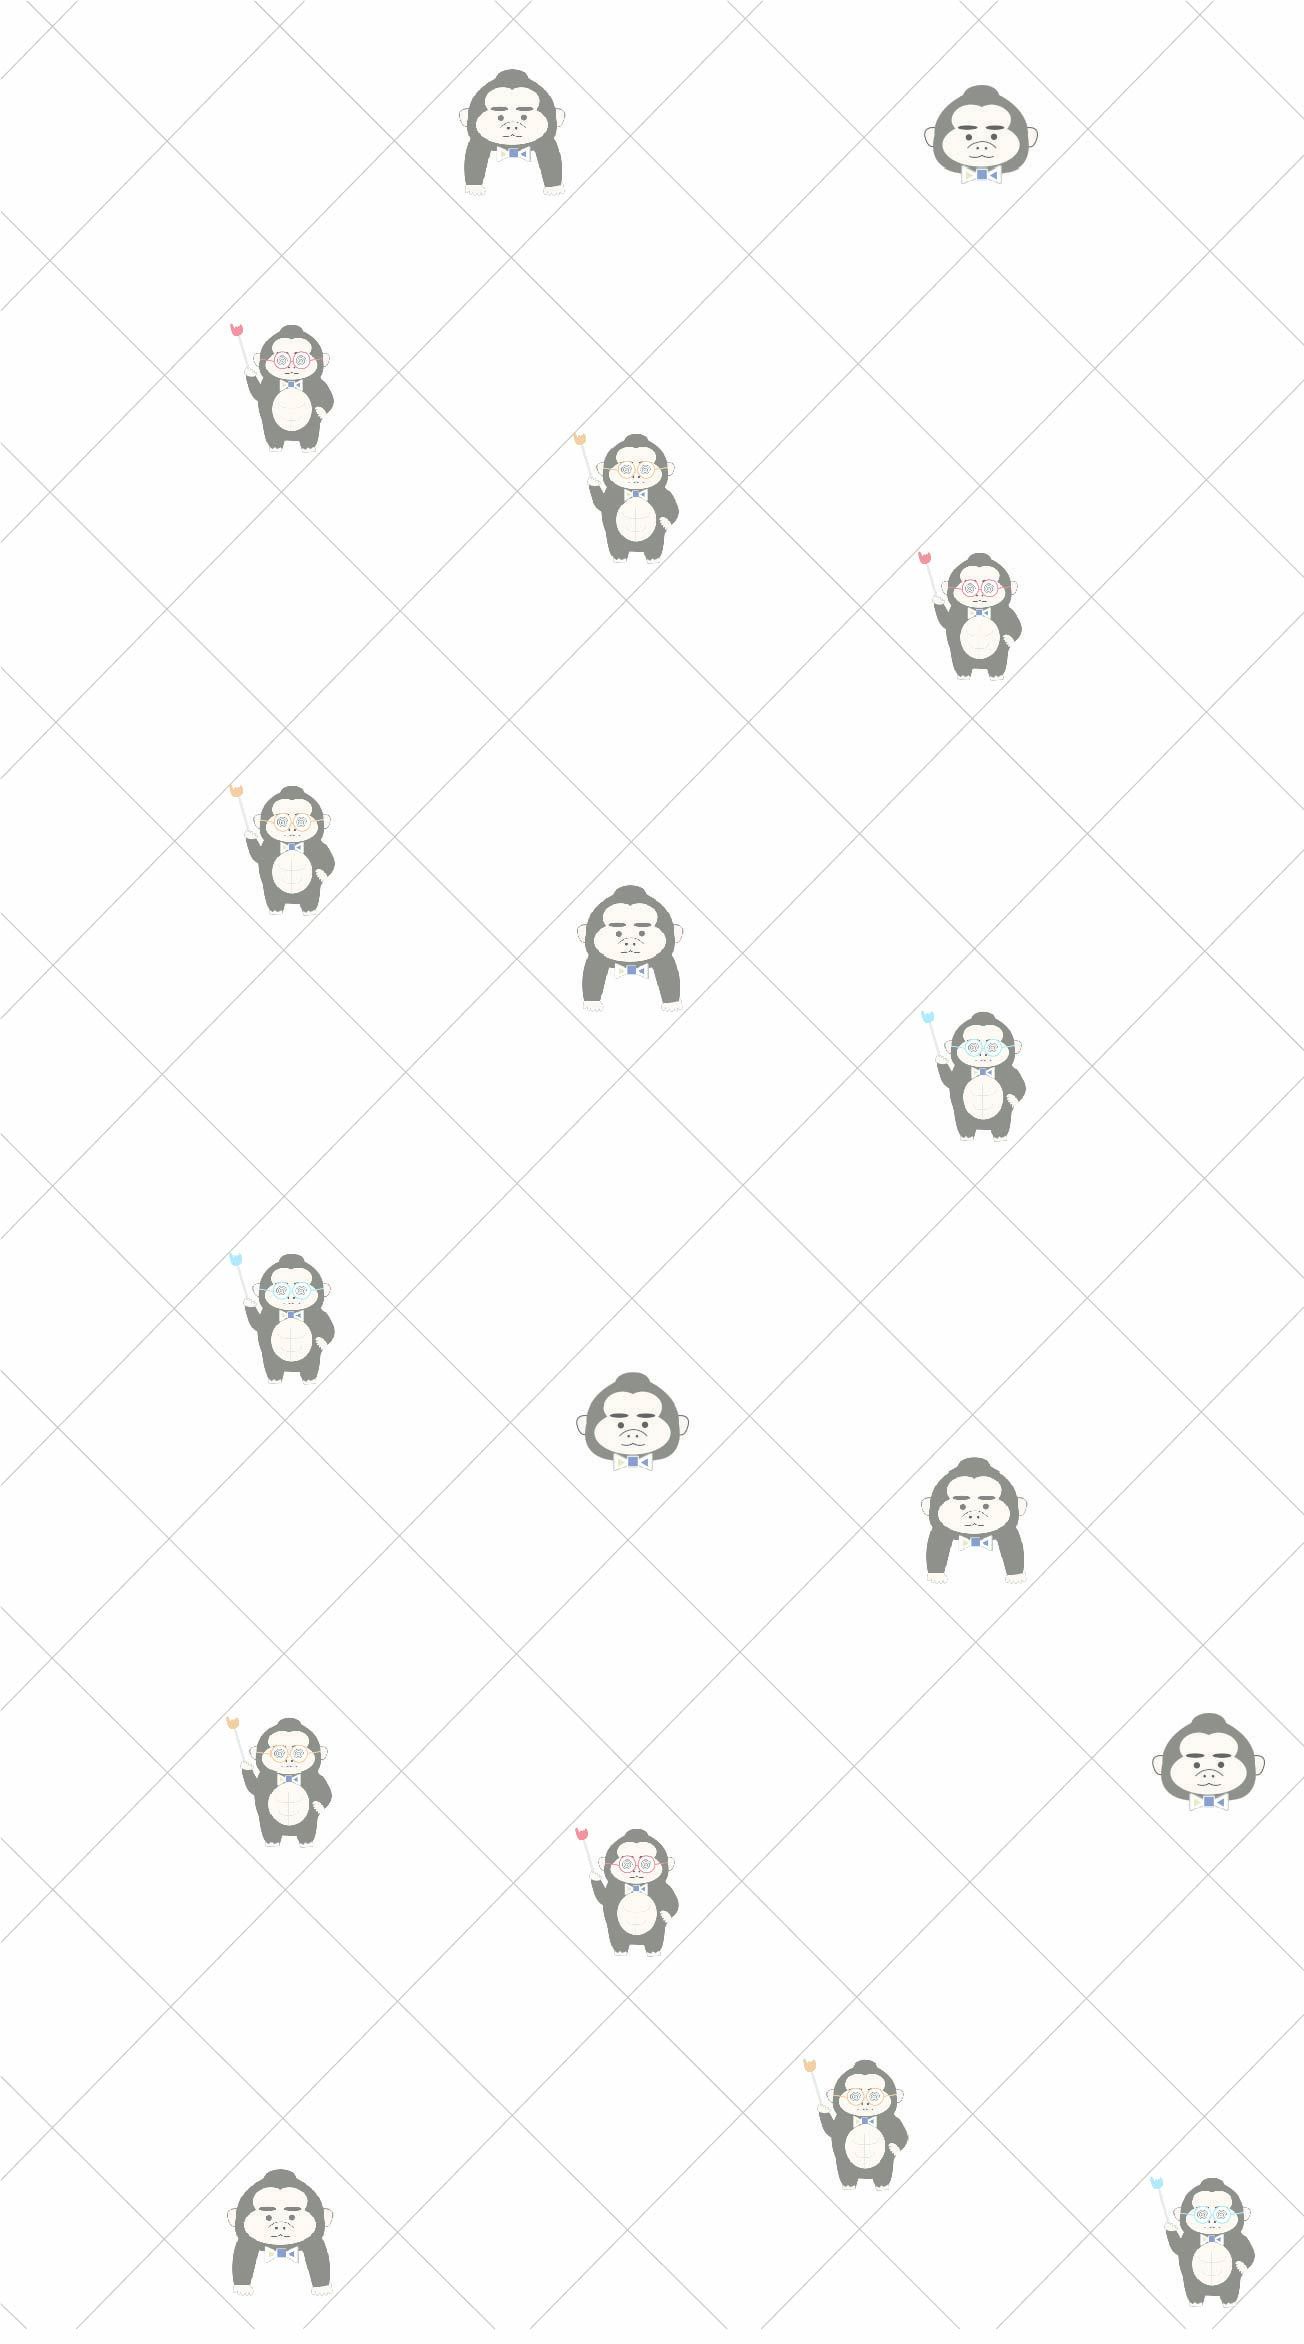
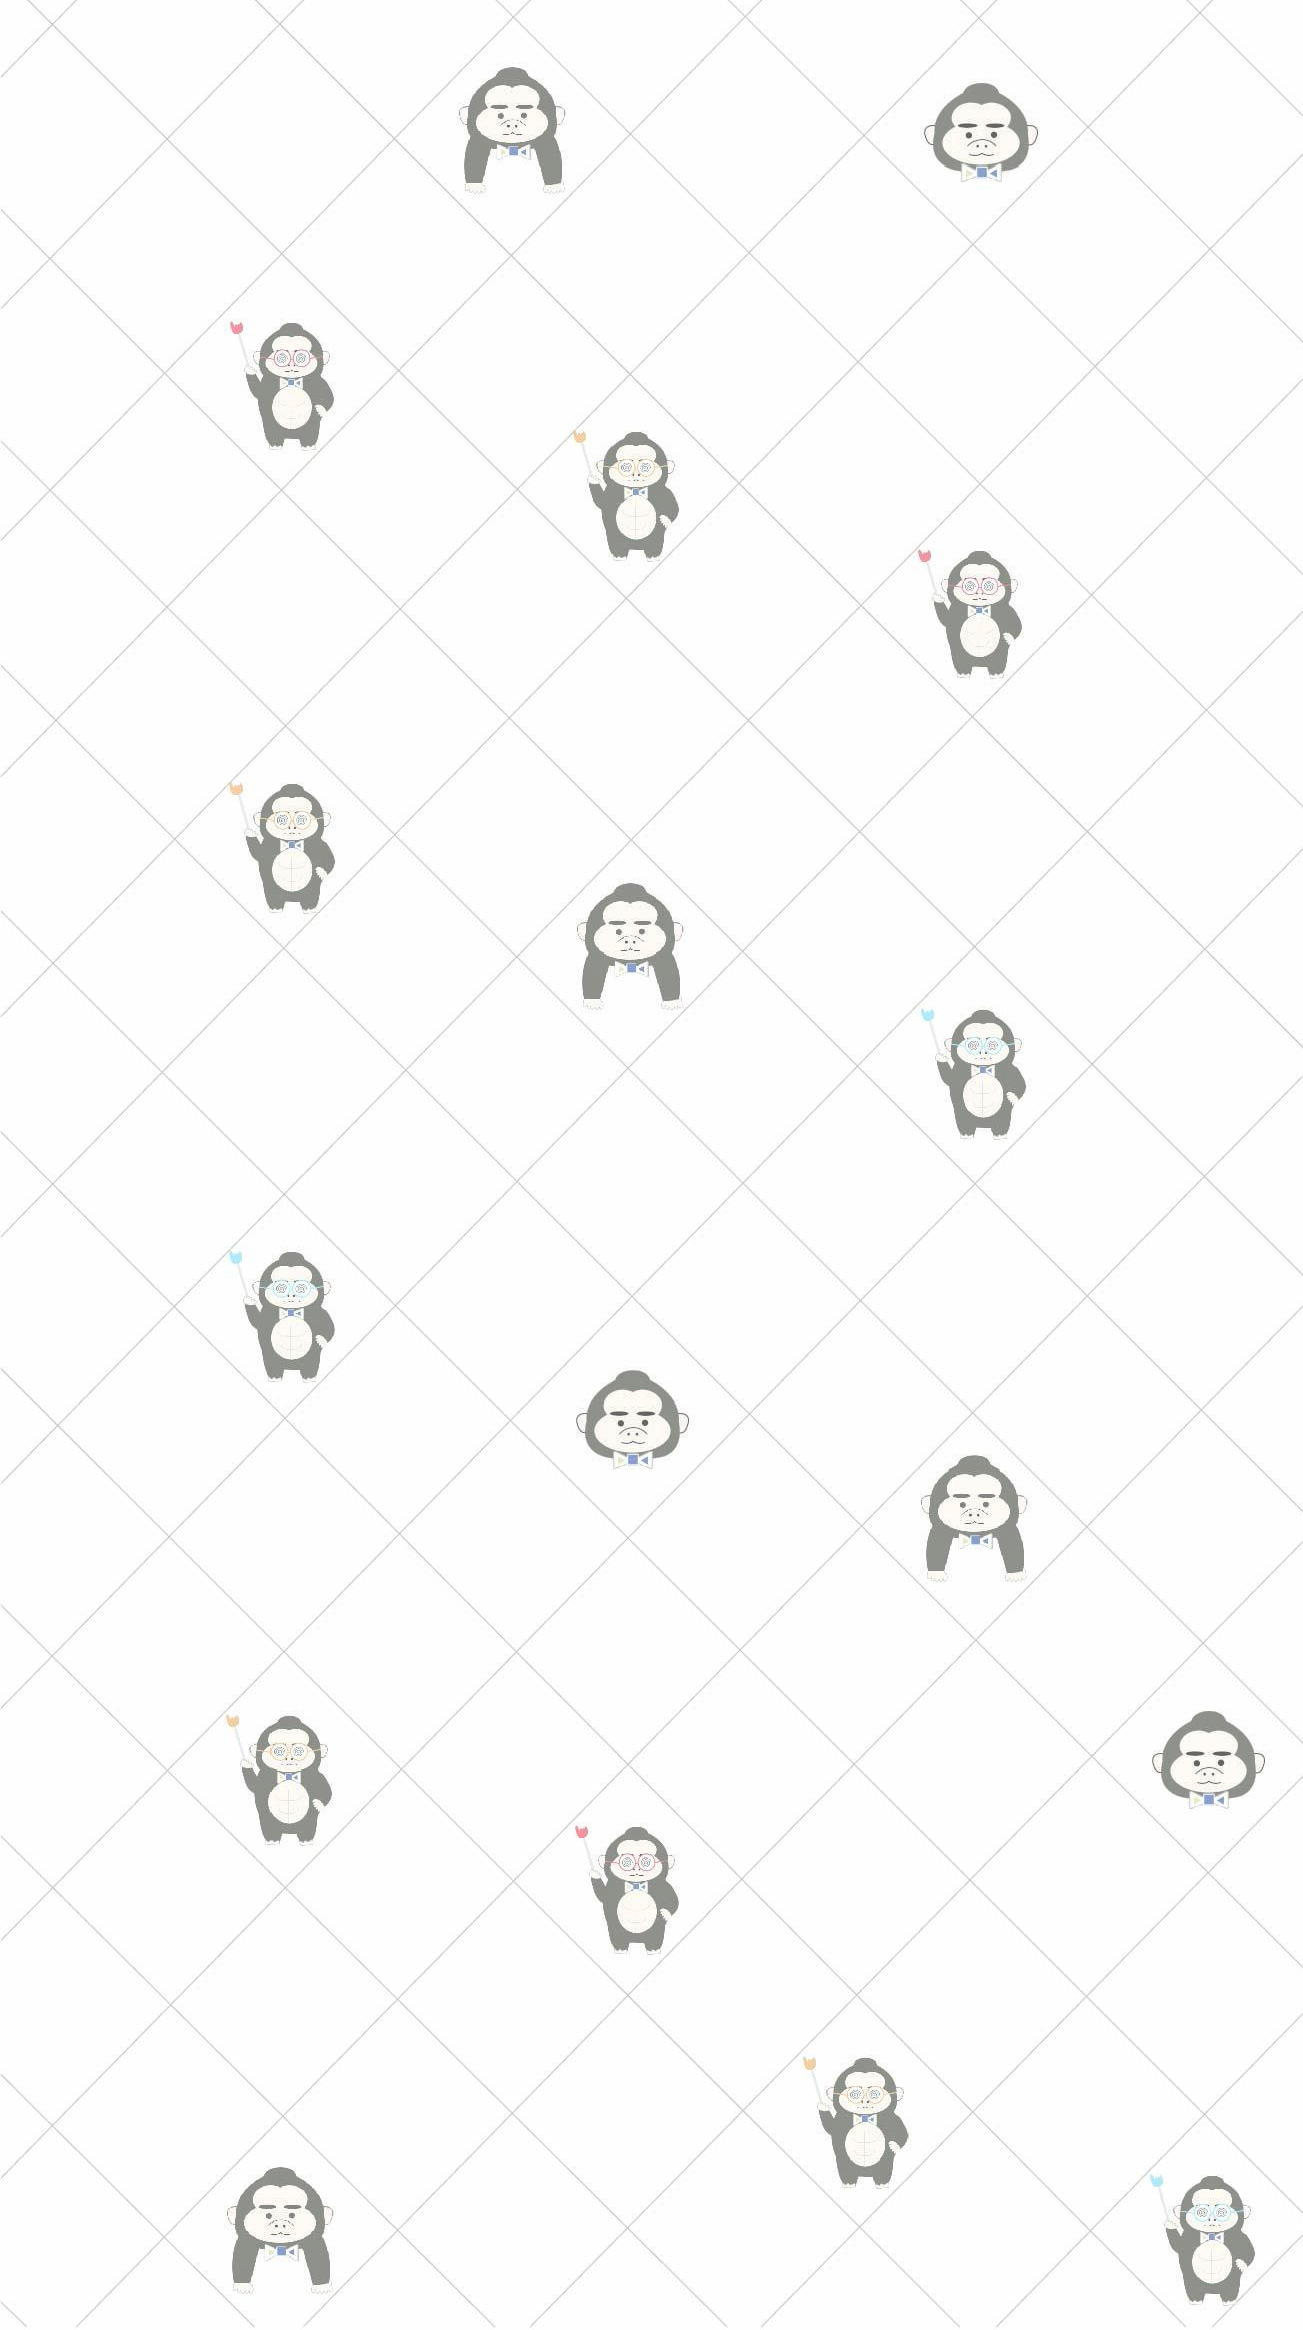
style: アニメーション

diff --git a/css/style.css b/css/style.css
@@ -88,10 +88,10 @@ main {
             .grid_wrap {
                 display: flex;
                 flex-direction: column;
-                animation: gridMove 2s infinite linear;
+                animation: gridMove 50s infinite linear;
                 img {
                     min-height: 100vh;
-                    object-fit: cover;
+                    object-fit: contain;
                 }
             }
         }

diff --git a/index.html b/index.html
@@ -10,7 +10,12 @@
     </head>
     <body>
         <div class="mock_wrap">
-            <div class="mock_bg"></div>
+            <div class="mock">
+                <div class="grid_wrap">
+                    <img src="images/haikei.jpg" alt="" />
+                    <img src="images/haikei.jpg" alt="" />
+                </div>
+            </div>
         </div>
         <div class="body_wrap">
             <header>
